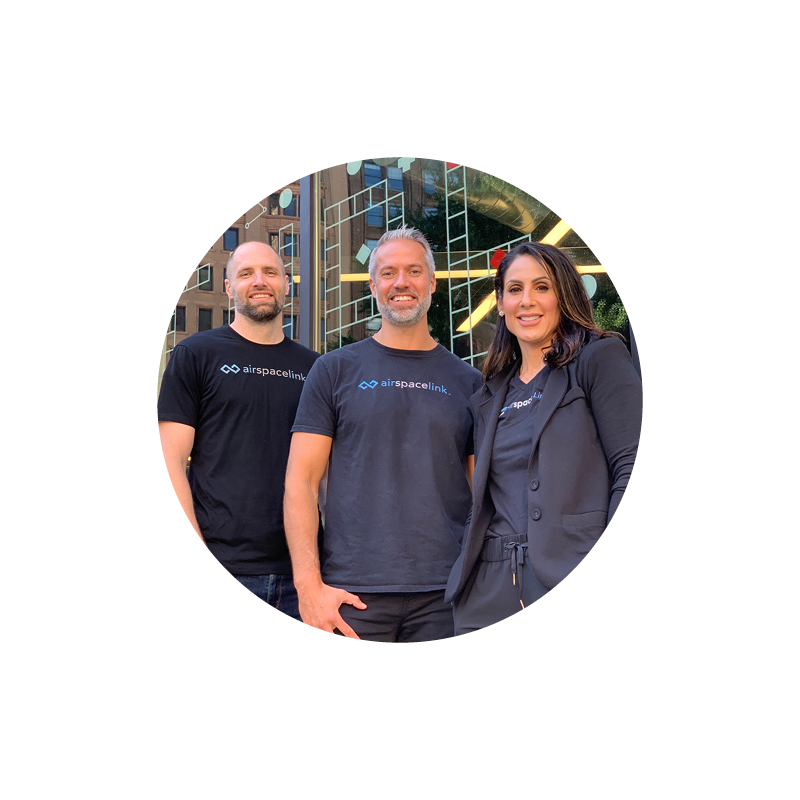
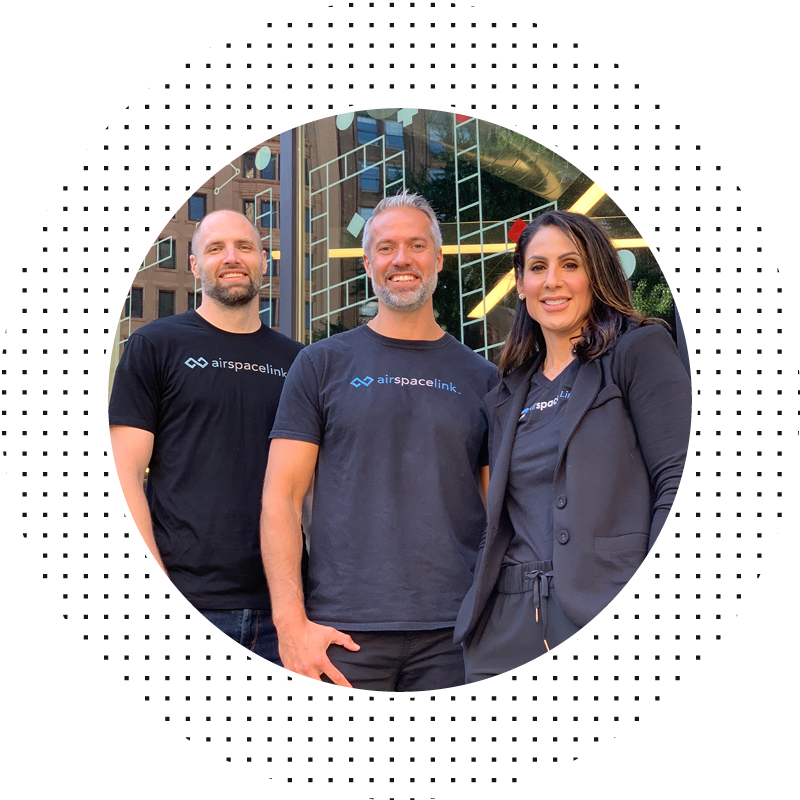
:bento: updating images; :lipstick: changing scroller button style

diff --git a/src/assets/styles/components/_info-scroller.scss b/src/assets/styles/components/_info-scroller.scss
@@ -37,10 +37,13 @@
   }
 
   li {
-    padding: 0;
+    padding: 6px;
+    border: 2px solid $black;
+    border-radius: 3px;
     margin: 0;
     display: flex;
     align-items: center;
+    transition: $transition;
   }
 
   @media only screen and (min-width: 700px) {
@@ -49,14 +52,6 @@
       justify-content: center;
       margin-top: 20px;
     }
-
-    li {
-      margin-right: 24px;
-
-      &:last-of-type {
-        margin-right: 0;
-      }
-    }
   }
 
   .info-scroller__item-1,
@@ -64,7 +59,6 @@
   .info-scroller__item-3,
   .info-scroller__item-4 {
     align-items: center;
-    border-radius: 0;
     cursor: pointer;
     display: flex;
     height: auto;
@@ -72,24 +66,19 @@
     font-size: 17px;
     
     .info-scroller__item-marker {
-      align-items: center;
-      border-radius: 22px;
-      border: 2px solid;
-      display: flex;
-      height: 22px;
-      justify-content: center;
       margin-right: 6px;
-      width: 22px;
     }
   }
 
   .info-scroller__item-1,
   .info-scroller__item-1 a {
+    border-color: $yellow;
     color: $yellow;
   }
 
   .info-scroller__item-2,
   .info-scroller__item-2 a {
+    border-color: $red;
     color: $red;
   }
   
@@ -100,11 +89,13 @@
 
   .info-scroller__item-3,
   .info-scroller__item-3 a {
+    border-color: $blue;
     color: $blue;
   }
 
   .info-scroller__item-4,
-    .info-scroller__item-4 a {
+  .info-scroller__item-4 a {
+    border-color: $teal;
     color: $teal;
   }
 }
@@ -209,26 +200,30 @@
   opacity: 1;
 }
 
-.info-scroller__item-1.is-active .info-scroller__item-marker {
+li.is-active .info-scroller__item-marker {
+  color: white;
+}
+
+.info-scroller__item-1.is-active,
+.info-scroller__item-1:hover {
   background-color: $yellow;
-  border-color: $yellow;
-  color: white;
+  color: $white;
 }
 
-.info-scroller__item-2.is-active .info-scroller__item-marker {
+.info-scroller__item-2.is-active,
+.info-scroller__item-2:hover {
   background-color: $red;
-  border-color: $red;
   color: white;
 }
 
-.info-scroller__item-3.is-active .info-scroller__item-marker {
+.info-scroller__item-3.is-active,
+.info-scroller__item-3:hover {
   background-color: $blue;
-  border-color: $blue;
   color: white;
 }
 
-.info-scroller__item-4.is-active .info-scroller__item-marker {
+.info-scroller__item-4.is-active,
+.info-scroller__item-4:hover {
   background-color: $teal;
-  border-color: $teal;
   color: white;
 }

diff --git a/src/App.js b/src/App.js
@@ -1,4 +1,5 @@
 import React from 'react';
+import ReactGA from 'react-ga';
 import {
   BrowserRouter as Router,
   Switch,
@@ -11,6 +12,9 @@ import Home from './pages/Home';
 import ScrollToTop from './components/ScrollToTop';
 
 const App = () => {
+  const TRACKING_ID = '';
+  ReactGA.initialize(TRACKING_ID);
+
   return (
     <ParallaxProvider>
       <Router>

diff --git a/src/data/RecognizedMembers.js b/src/data/RecognizedMembers.js
@@ -555,6 +555,9 @@ const Donor = [
     name: 'Penske Corporation',
   },
   {
+    name: 'Rocket Community Fund',
+  },
+  {
     name: 'MacKenzie Scott',
   },
   {
@@ -565,9 +568,6 @@ const Donor = [
   },
   {
     name: 'Ralph C. Wilson, Jr. Foundation',
-  },
-  {
-    name: 'Rocket Community Fund',
   },
 ];
 
